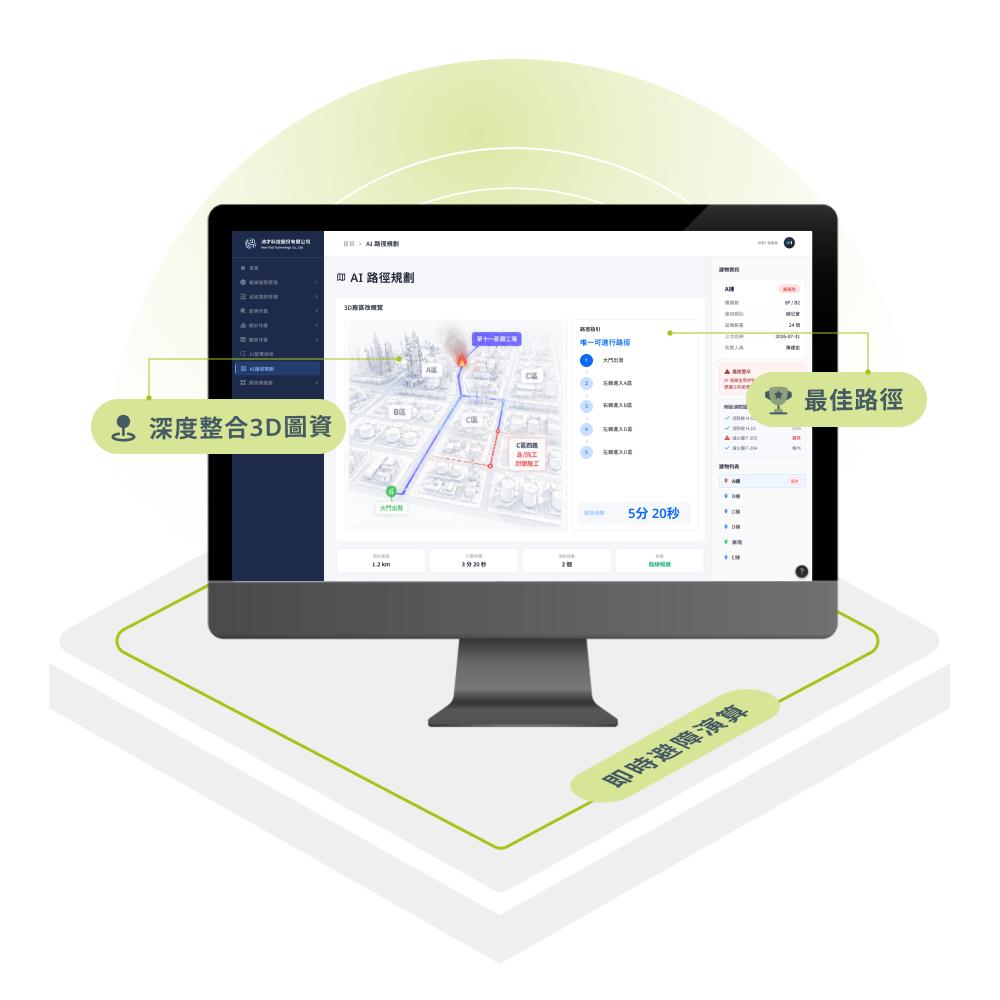
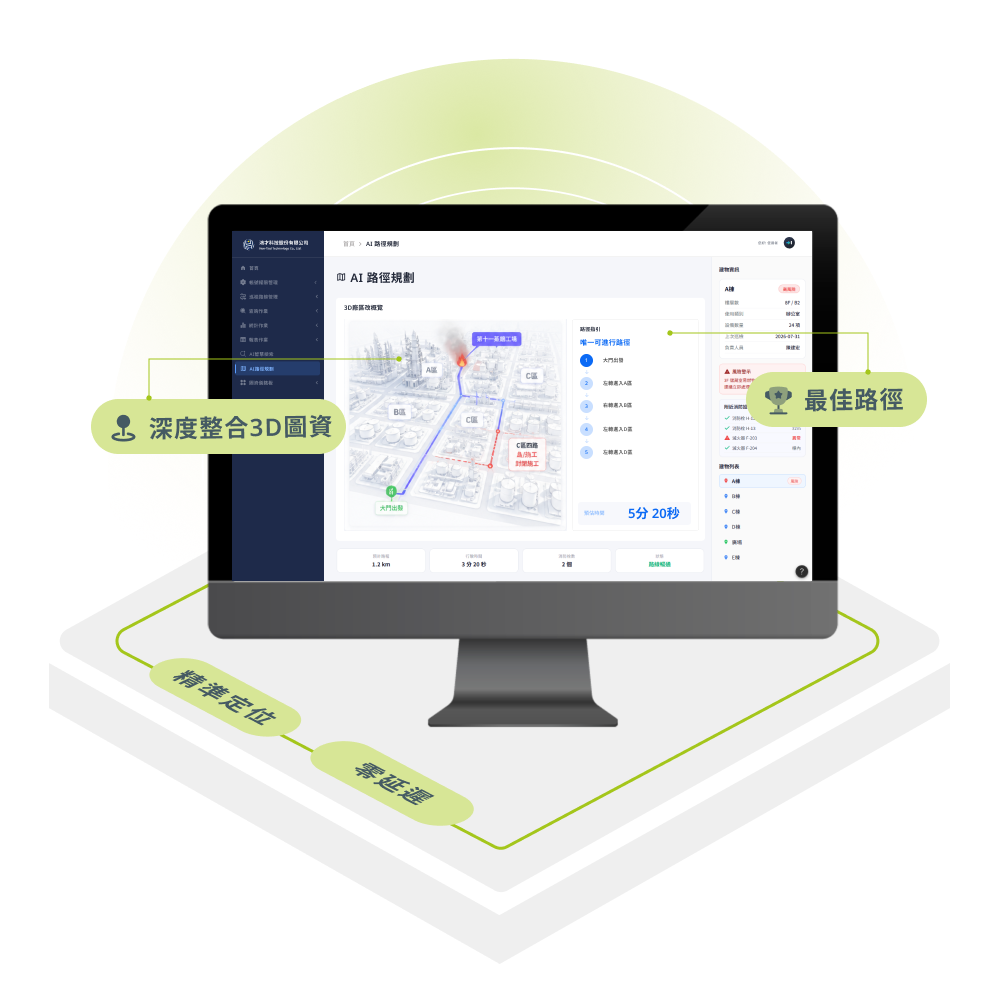
[更新] AI消防巡檢與圖資-0807

diff --git a/service_info_aifire.html b/service_info_aifire.html
@@ -237,7 +237,7 @@
           <div class="nav-item" data-target="Problem">常見困擾</div>
           <div class="nav-item" data-target="Diagram">情境模擬圖</div>
           <div class="nav-item" data-target="Design">設計理念</div>
-          <div class="nav-item" data-target="Feature">特色</div>
+          <div class="nav-item" data-target="Feature">核心優勢</div>
           <div class="nav-item" data-target="Solution">解決方法</div>
           <div class="nav-item" data-target="Application">應用層面</div>
         </div>      
@@ -252,10 +252,38 @@
                 <h2 class="service_aifire_6_1__section-title-inner-en">How To Help Businesses</h2>
               </div>
               <div class="service_aifire_6_1__section-sub">
-                <h3 class="service_aifire_6_1__section-sub-inner">量身打造企業專屬的智慧化現場決策入口</h3>
+                <h3 class="service_aifire_6_1__section-sub-inner">打造企業專屬的AI智慧化現場決策入口</h3>
               </div>
               <div class="service_aifire_6_1__disc">
-                <p>在高度複雜的工業廠區中，傳統的巡檢模式已無法滿足瞬息萬變的工安需求。鴻才AI消防巡檢與圖資管理系統能協助企業將原本被動的「單純巡檢資料」，全面升級為「AI輔助現場應變決策」的AI智慧入口。透過導入最新世代的AI邊緣運算與自然語言處理技術，我們將廠區的消防設備、化學品資訊與動態圖資深度整合，賦予現場人員可查、可導、可控制且可閉環的AI智慧應變能力，為企業打造快速、可用、合規且絕對可信的安全防護網。</p>
+                <p>在高度複雜的工業廠區中，傳統的巡檢模式已無法滿足瞬息萬變的工安需求。鴻才科技結合最新AI應用，將「單純的巡檢資料」全面升級為「AI 輔助現場應變決策」的智慧平台。AI消防巡檢與圖資管理系統，是一套以「AI消防小助手」為核心大腦、整合3D圖資平台(空間資訊與場域管理)與 AI消防巡檢(日常管理與設備巡檢)的企業級AI防災解決方案。三者環環相扣，讓AI從資料底層一路貫穿到現場應變決策。</p>
+              </div>
+              <div class="service_aifire_6_1__section-sub">
+                <h3 class="service_aifire_6_1__section-header">三大核心系統整合</h3>
+              </div>
+              <div class="service_aifire_6_1__box">
+                <div class="row">
+                  <div class="col-lg-4">
+                    <div class="service_aifire_6_1__card wow fadeInUp" data-wow-delay="0.0s" data-wow-duration="1.5s">
+                      <h3 class="service_aifire_6_1__card-title">AI消防巡檢系統</h3>
+                      <div class="service_aifire_6_1__card-subtitle">建立智慧巡檢資料底座</div>
+                      <p class="service_aifire_6_1__card-desc">建立完整消防設備履歷、巡檢紀錄、維修保養、H-Card、安全資料表(SDS)及化學品管理，透過自動化串接，打造值得信賴的AI消防知識庫。</p>
+                    </div>
+                  </div>
+                  <div class="col-lg-4">
+                    <div class="service_aifire_6_1__card wow fadeInUp" data-wow-delay="0.2s" data-wow-duration="1.5s">
+                      <h3 class="service_aifire_6_1__card-title">3D圖資平台</h3>
+                      <div class="service_aifire_6_1__card-subtitle">打造智慧場域管理中心</div>
+                      <p class="service_aifire_6_1__card-desc">建立企業專屬3D圖資平台，整合建築物、消防設備、道路、危害區域、避難路線、承攬商施工資訊及道路管制，即時呈現整體場域資訊，提供AI精準空間定位、設備導航最佳救援動線規劃。</p>
+                    </div>
+                  </div>
+                  <div class="col-lg-4">
+                    <div class="service_aifire_6_1__card wow fadeInUp" data-wow-delay="0.4s" data-wow-duration="1.5s">
+                      <h3 class="service_aifire_6_1__card-title">AI消防小助手</h3>
+                      <div class="service_aifire_6_1__card-subtitle">現場智慧決策與應變</div>
+                      <p class="service_aifire_6_1__card-desc">將消防防護計畫、消防法規、緊急應變程序、工作許可與承攬商管理全面數位化，結合 AI消防小助手，自動提供法規查詢、應變建議、人員疏散及事件追蹤，建立無懈可擊的AI消防治理機制。</p>
+                    </div>
+                  </div>
+                </div>    
               </div>
             </div>
           </div>
@@ -283,7 +311,7 @@
                           <img src="assets/img/demo/service/aifire/hard1.png" alt="常見困擾:傳統消防巡檢系統僅能紀錄 無法自動辨識異常">
                         </div>
                         <div class="service_aifire_6_2__card-text">
-                          <h3 class="title">資料分散且查詢耗時</h3>H-Card、安全資料表 (SDS)、廠區圖資與消防資源散落各處，緊急時缺乏AI智慧檢索輔助，導致現場查找極度耗時。
+                          <h3 class="title">資訊分散缺乏整合</h3>H-Card、安全資料表(SDS)、廠區圖資與消防資源散落各處，緊急時缺乏統一平台與AI智慧檢索輔助，現場查詢耗時，影響應變速度。
                         </div>
                       </div>
                     </div>
@@ -293,7 +321,7 @@
                           <img src="assets/img/demo/service/aifire/hard2.png" alt="常見困擾:缺乏圖資與派工串接">
                         </div>
                         <div class="service_aifire_6_2__card-text">
-                          <h3 class="title">路徑不確定易延誤</h3>火點周邊道路全佔、半佔或臨時管制若未即時反映，在缺乏AI路徑規劃輔助，容易導致消防車輛與人員導引時常延誤。
+                          <h3 class="title">缺乏空間視覺化管理</h3>傳統2D平面圖無法完整呈現大型廠區空間資訊，當事故發生時，人員難以快速判斷設備位置、建築配置及最佳救援動線，若無AI導航輔助，容易延誤應變時機。
                         </div>
                       </div>
                     </div> 
@@ -303,7 +331,7 @@
                           <img src="assets/img/demo/service/aifire/hard3.png" alt="常見困擾:消防稽核資料準備困難 錯誤率高">
                         </div>
                         <div class="service_aifire_6_2__card-text">
-                          <h3 class="title">通報疏散難以閉環</h3>火警發生時，受影響的作業人員難以快速清點，缺乏AI自動比對與追蹤，導致疏散通知與確認紀錄無法緊密扣合。
+                          <h3 class="title">通報疏散難以閉環</h3>火警發生時，受影響的人員難以快速清點，缺乏AI自動比對與追蹤，導致疏散通知與確認紀錄無法緊密扣合。
                         </div>
                       </div>
                     </div> 
@@ -313,7 +341,7 @@
                           <img src="assets/img/demo/service/aifire/hard4.png" alt="常見困擾:無即時通報與跨平台支援限制">
                         </div>
                         <div class="service_aifire_6_2__card-text">
-                          <h3 class="title">高危險管控追溯不足</h3>高危物質資訊、資料版本與人員操作若沒有完整留痕，事後追查困難，也讓AI給出的答案缺乏可信度與可追溯性。
+                          <h3 class="title">高危險管控追溯不足</h3>高危物質資訊、資料版本與人員操作若沒有完整留痕，事後追查困難，也讓系統給出的答案缺乏可信度與可追溯性。
                         </div>
                       </div>
                     </div>   
@@ -357,8 +385,9 @@
                 <ul>
                   <li>【務實導向】無縫升級既有系統：不需花大錢重做系統，透過擴充「AI消防小助手」，直接將現有的巡檢系統升級為現場決策入口。</li>
                   <li>【資安至上】地端私有AI部署：嚴格確保企業機密與工安資料絕不外流，打造最高規格的資訊安全防護網。</li>
-                  <li>【前線友善】專屬極端環境介面：系統主打「少切換、好判讀、可離線」，更專為現場打造 AI 防爆型平板介面，支援手勢縮放，強光或戴手套皆能順暢操作。 </li>
-                  <li>【確保運作】強大AI離線快取：即使在廠區無網死角，依然能保持 AI 應變能力，隨時查詢常用化學品與至少 5,000 筆標準應變問答。</li>
+                  <li>【前線友善】專屬極端環境介面：系統主打「少切換、好判讀、可離線」，更專為現場打造AI防爆型平板介面，支援手勢縮放，強光或戴手套皆能順暢操作。 </li>
+                  <li>【確保運作】強大AI離線快取：即使在廠區無網死角，依然能保持AI應變能力，隨時查詢常用化學品與至少5,000筆標準應變問答。</li>
+                  <li>【統一平台】企業專屬3D圖資平台：建立企業專屬3D圖資平台，整合AI消防巡檢、消防設備、道路資訊、危害區域及巡檢紀錄，打造AI智慧消防空間管理平台。</li>
                 </ul>
               </div>  
             </div>  
@@ -395,17 +424,24 @@
                       <h3 class="title">強大AI離線快取</h3> 
                     </div>
                   </div>
+                  <!-- 項目 -->
+                  <div class="col-lg-6 col-md-12 col-sm-12 col-item">
+                    <div class="service_aifire_6_4__img-box">
+                      <div class="service_aifire_6_4__icon"><img src="assets/img/demo/service/aifire/service_6_4__icon5.svg"></div>
+                      <h3 class="title">統一平台</h3> 
+                    </div>
+                  </div>
                 </div>
               </div>
             </div>
           </div>
         </div>
       </section>
-      <!-- :: 特色優勢 -->
+      <!-- :: 核心優勢 -->
       <section id="Feature" class="service_aip_6_3 sec-padding" data-wow-delay="0.0s" data-wow-duration="1.5s" style="background-image: url(assets/img/demo/service/service_info_6_3_bg.png); background-size: cover;">
         <div class="container-fluid">
           <div class="service_aip_6_3__section-title wow fadeInUp" data-wow-delay="0.0s" data-wow-duration="1.5s">
-            <h2 class="service_aip_6_3__section-title-inner">特色</h2>
+            <h2 class="service_aip_6_3__section-title-inner">核心優勢</h2>
             <h2 class="service_aip_6_3__section-title-inner-en">Feature</h2>
           </div>
           <div class="service_aip_6_3__detial-section">
@@ -419,13 +455,13 @@
                       <div class="service_aip_6_3__inner-content">
                         <img class="service_aip_6_3__product-thumb" src="assets/img/demo/service/aifire/1.png" alt="AI智慧巡檢主動偵測消防異常並即時通知">
                         <div class="service_aip_6_3__product-info">
-                          <h3 class="title">可查: AI知識檢索</h3>
+                          <h3 class="title">可查:AI知識檢索(打造行動智慧庫)</h3>
                           <ul>
                             <li>捨棄繁雜的系統切換，支援直覺式的口語、文字或掃碼AI查詢。</li>
                             <li>結合RAG檢索化學品、H-Card、SDS與消防資源資料。</li>
                             <li>每筆AI回覆皆精準標示引用來源與資料版本，確保現場作業專業可靠。</li>
                           </ul>
-                          <p><span>核心亮點：本系統提供具備「資料溯源」的 AI 行動智慧庫。</span>
+                          <p><span>核心亮點：本系統提供具備「資料溯源」的AI行動智慧庫。</span>
                           </p>
                         </div>
                       </div>
@@ -437,13 +473,14 @@
                       <div class="service_aip_6_3__inner-content">
                         <img class="service_aip_6_3__product-thumb" src="assets/img/demo/service/aifire/2.png" alt="圖資結合巡檢紀錄 即時更新與可視化儀表板">
                         <div class="service_aip_6_3__product-info">
-                          <h3 class="title">可導: AI路徑規劃</h3>
+                          <h3 class="title">可導:3D圖資智慧導航(實現零延遲救災)</h3>
                           <ul>
-                            <li>深度整合廠區3D圖資、2D路網與道路節點數據。</li>
-                            <li>自動偵測道路全佔、半佔施工或臨時管制，即時讓AI規避障礙路段。</li>
-                            <li>快速運算並回傳 0–1 條最佳可抵達路徑，大幅提升救災與疏散效率。</li>
+                            <li>整合消防設備、巡檢位置、危害區域、道路及建築資訊。</li>
+                            <li>即時定位設備、消防栓、滅火器、化學品存放區及避難路線。</li>
+                            <li>提供空間導航及最佳救援動線，提高大型場域救災效率。</li>
+                            <li>結合AI分析，即時演算出0-1條最佳救援避障路徑。</li>
                           </ul>
-                          <p><span>核心亮點：本系統具備「即時避障演算」，AI救災導航不走冤枉路。</span></p>
+                          <p><span>核心亮點：融合即時動態避障與地下管線透視技術，打造智慧消防空間決策平台。</span></p>
                         </div>
                       </div>
                     </div>
@@ -454,12 +491,12 @@
                       <div class="service_aip_6_3__inner-content">
                         <img class="service_aip_6_3__product-thumb" src="assets/img/demo/service/aifire/3.png" alt="完整歷程保存 一鍵生成消防稽核報告">
                         <div class="service_aip_6_3__product-info">
-                          <h3 class="title">可控: AI高危檢核</h3>
+                          <h3 class="title">可控:AI高危檢核(獨家雙重安全邊界)</h3>
                           <ul>
                             <li>對高危物質回答加入禁止事項與二次檢核機制，嚴防工安誤判。</li>
                             <li>遇資料不足時AI會主動防呆並提示「人工確認」，避免AI誤判造成風險。</li>
                           </ul>
-                          <p><span>核心亮點：獨家導入「AI 防護邊界Guardrail 雙重檢核」，確保決策零風險。</span></p>
+                          <p><span>核心亮點：獨家導入「AI防護邊界Guardrail雙重檢核」，確保決策零風險。</span></p>
                         </div>
                       </div>
                     </div>
@@ -470,11 +507,12 @@
                       <div class="service_aip_6_3__inner-content">
                         <img class="service_aip_6_3__product-thumb" src="assets/img/demo/service/aifire/4.png" alt="手機平板電腦皆可操作的跨平台消防巡檢系統">
                         <div class="service_aip_6_3__product-info">
-                          <h3 class="title">可閉環: AI留痕稽核</h3>
+                          <h3 class="title">可閉環:AI留痕稽核(落實100%管理績效)</h3>
                           <ul>
-                            <li>從查詢、推播、確認到處置，AI消防小助手全程留下紀錄，讓企業治理與資安合規有跡可循。</li>
+                            <li>結合工作許可證資料，事件發生時一鍵產出「受影響人員/承攬商清單」。</li>
+                            <li>從火點查詢、發布疏散推播、人員確認到事件處置，AI全程留下紀錄。</li>
                           </ul>
-                          <p><span>核心亮點：有別於多數廠商僅能單向廣播且難以清點人數；本系統實現「精準推播＋確認留痕」的應變閉環。</span></p>
+                          <p><span>核心亮點：實現「精準推播＋確認留痕」的疏散閉環，讓企業治理與合規稽核有跡可循。</span></p>
                         </div>
                       </div>
                     </div>
@@ -534,7 +572,7 @@
                   <div class="service_aifire_6_6__item-number">0<span>種</span></div>
                 </div>
                 <ul>
-                  <li>待確認</li>
+                  <li></li>
                 </ul>
               </div>
             </div>
@@ -557,13 +595,13 @@
                     <div class="service_cvr_6_7__item-img">
                       <img src="assets/img/demo/service/aifire/industry1.png" alt="石化與化工業 動火作業與密閉空間許可監督">
                     </div>  
-                    <h3 class="service_cvr_6_7__item-title">石化與化工業</h3>
+                    <h3 class="service_cvr_6_7__item-title">石化/煉油廠</h3>
                   </div>
                 </div>
                 <div class="col-lg-9 col-md-12 col-sm-12 p-0">  
                   <div class="service_cvr_6_7__text">
                     <p>建構高危環境AI防護網</p>
-                    <p>結合AI消防巡檢、AI消防小助理，即時連動化學品（H-Card／SDS）與消防資源；透過3D圖資精準定位事故並規劃最佳救災路徑，打造零死角智慧防護網。</p>
+                    <p>透過AI消防巡檢系統，管理消防設備、巡檢紀錄及危害物質，結合3D圖資平台，快速定位事故位置、消防資源與最佳救援動線，再由AI消防小助手提供 H-Card、SDS、應變流程及AI決策建議，全面提升高風險場域的消防安全與應變效率。</p>
                   </div>
                 </div>
               </div>  
@@ -582,7 +620,7 @@
                 <div class="col-lg-9 col-md-12 col-sm-12 p-0">  
                   <div class="service_cvr_6_7__text">
                     <p>守護高價值機台與人員</p>
-                    <p>透過AI消防巡檢系統與AI知識庫，嚴密管控無塵室與特殊氣體；AI消防小助理即時提供設備位置、消防資源及應變資訊，協助企業提升智慧工廠消防管理效率，確保高價值設備與人員安全。</p>
+                    <p>利用AI消防巡檢系統，建立設備履歷與巡檢管理，搭配3D圖資平台，掌握無塵室、特殊氣體及消防設備位置，並透過AI消防小助手快速查詢設備資訊、法規及應變措施，提升設備安全與管理效率。</p>
                   </div>
                 </div>
               </div>  
@@ -600,8 +638,8 @@
                 </div>
                 <div class="col-lg-9 col-md-12 col-sm-12 p-0">  
                   <div class="service_cvr_6_7__text">
-                    <p>無死角的AI災害應變</p>
-                    <p>針對大型設施導入AI消防設備管理，搭配3D圖資平台，即時掌握危險區域動態並提供AI最佳避障路徑，極大化大型場域的應變效率。</p>
+                    <p>打造全天候AI災害應變</p>
+                    <p>透過AI消防巡檢系統，管理消防設備與巡檢作業，結合3D圖資平台，即時掌握大型場域與危險區域，再由AI消防小助手提供AI智慧導航、事故分析及應變決策，提升大型設施的災害應變能力。</p>
                   </div>
                 </div>
               </div>  
@@ -619,8 +657,8 @@
                 </div>
                 <div class="col-lg-9 col-md-12 col-sm-12 p-0">  
                   <div class="service_cvr_6_7__text">
-                    <p>無痛升級數位設備履歷</p>
-                    <p>整合企業既有資料與AI消防圖資，建立防篡改的數位設備履歷；AI消防小助理協助現場快速檢索資源，輕鬆實現工廠智慧化與數位轉型。</p>
+                    <p>加速智慧工廠數位轉型</p>
+                    <p>以AI消防巡檢系統，建立設備履歷與巡檢管理，搭配3D圖資平台，整合廠區空間與消防設備資訊，再透過AI消防小助手提供設備查詢、巡檢分析，打造智慧消防管理與設備全生命週期管理。</p>
                   </div>
                 </div>
               </div>  
@@ -638,8 +676,8 @@
                 </div>
                 <div class="col-lg-9 col-md-12 col-sm-12 p-0">  
                   <div class="service_cvr_6_7__text">
-                    <p>強化人群疏散與合規稽核</p>
-                    <p>利用AI消防巡檢系統集中管理避難路線；結合 AI消防小助理精準推播應變指引並全程留痕，高效提升日常安全管理與稽核品質。</p>
+                    <p>提升日常消防管理品質</p>
+                    <p>透過AI消防巡檢系統，管理消防設備與巡檢作業，結合3D圖資平台，掌握建築空間、避難路線及消防資源，再由AI消防小助手提供疏散指引、法規查詢及事件留痕管理，強化人員安全與合規稽核。</p>
                   </div>
                 </div>
               </div>  

diff --git a/assets/css/service.css b/assets/css/service.css
@@ -11681,6 +11681,78 @@ img[class*="service_car_6_6__deco-"] {
   letter-spacing: 0.01em;
 }
 
+.service_aifire_6_1__section-header {
+  display: flex;
+  align-items: center;
+  justify-content: center;
+  margin-bottom: 40px;
+}
+
+.service_aifire_6_1__section-header::before,
+.service_aifire_6_1__section-header::after {
+  content: "";
+  flex: 1;
+  height: 1px;
+  background-color: #d1d5db; /* 淺灰色線條 */
+}
+
+/*/////////////////卡片/////////////////*/
+
+.service_aifire_6_1__box {
+  margin-bottom: 50px;
+}
+
+.service_aifire_6_1__card {
+  position: relative;
+  line-height: 2;
+  letter-spacing: 0.15em;
+  text-align: center;
+  padding: 40px 28px;
+  border-radius: 20px;
+  background-color: #DBE7FF;
+  transition: transform 0.3s ease, box-shadow 0.3s ease;
+  height: 100%;
+}
+
+.service_aifire_6_1__card-title {
+  position: relative;
+  color: var(--color-primary);
+  font-size: var(--font-main3);
+  font-weight: bold;
+  margin-bottom: 16px;
+  text-align: center;
+  z-index: 1;
+}
+
+.service_aifire_6_1__card-subtitle {
+  font-size: 16px;
+  font-weight: 600;
+  color: #1f2937;
+  margin-bottom: 16px;
+  position: relative;
+  padding-top: 16px;
+}
+
+.service_aifire_6_1__card-subtitle::before {
+  content: "";
+  position: absolute;
+  top: 0;
+  left: 50%;
+  transform: translateX(-50%);
+  width: 50px;
+  height: 7px;
+  background-color: #478FFF; /* 亮藍色線條 */
+  border-radius: 20px;
+}
+
+.service_aifire_6_1__card-desc {
+  color: #626262;
+  font-size: 16px;
+  text-align: justify;
+  word-break: break-word;
+  position: relative;
+  z-index: 1;
+}
 
 /*
 -----------------------------------------------------------------------
